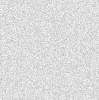
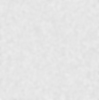
Updated style with less shadow and texture

diff --git a/index.html b/index.html
@@ -65,6 +65,7 @@
 </head>
 <body>
 	
+<div id="backgroundGradient"></div>
 <div id="pageWrapper">
 	
 	<div id="navTile" class="tileDarkGradient">
@@ -85,7 +86,7 @@
 			<img id="aboutPicture" src="images/me.png" alt="Picture of Me!" />
 			<div id="aboutInfo">
 				<div id="aboutTitle">Hey there!</div>
-				<div id="aboutDescription">Welcome to my website. I'm a User Experience Designer and Developer. I'm looking for roles that allow me to craft incredible user experiences. I believe in lifelong learning and an education for all. Only through education will we be able to solve the world's problems. That's why I find myself working on projects that promote this. Check out my <a href="javascript:showPortfolio()">portfolio</a> and <a href="javascript:showResume()">resum&eacute;</a> for more!</div>
+				<div id="aboutDescription">Welcome to my website. I'm a User Experience Designer and Developer. I'm looking for roles that allow me to craft incredible user experiences. I believe in lifelong learning and an education for all. Through education we will solve the world's problems. That's why I find myself working on projects that promote this. Check out my <a href="javascript:showPortfolio()">portfolio</a> and <a href="javascript:showResume()">resum&eacute;</a> for more!</div>
 			</div>
 		</div>
 		
@@ -112,7 +113,7 @@
 		<div id="twitterTile" class="tileDark">
 			<div id="twitterHandle">
 				<img src="images/twitter.png" style="height: 46px;" alt="Twitter" />
-				<span style="vertical-align: top">TWITTER <a href="http://twitter.com/tjpiggott" style="vertical-align: top" target="_blank">@TJPIGGOTT</a></span>
+				<span style="vertical-align: top"><a href="http://twitter.com/tjpiggott" style="vertical-align: top" target="_blank">TWITTER</a></span>
 			</div>
 			<a class="twitter-timeline" data-dnt=true href="https://twitter.com/tjpiggott" data-widget-id="256671767760879616" width="440" height="350">... loading tweets</a>
 			<script type="text/javascript">!function(d,s,id){var js,fjs=d.getElementsByTagName(s)[0];if(!d.getElementById(id)){js=d.createElement(s);js.id=id;js.src="http://platform.twitter.com/widgets.js";fjs.parentNode.insertBefore(js,fjs);}}(document,"script","twitter-wjs");</script>
@@ -121,7 +122,7 @@
 		<div id="instagramTile" class="tileDark">
 			<img src="images/instagram.png" style="float: left; height: 40px; margin: 20px 10px 0 20px;" alt="Instagram" />
 			<div id="instagramInfo">
-				<div id="instagramTitle">INSTAGRAM</div>
+				<div id="instagramTitle"><a href="http://instagram.com/tjpiggott" target="_blank">INSTAGRAM</a></div>
 				<div id="instagramDescription">Pictures of life... which means lots of food.</div>
 			</div>
 			<div id="instagramPhoto"></div>
@@ -179,14 +180,14 @@
 				<div class="itemMeta">
 					Winter '12 - Present
 					<br/><br/>
-					<b>Roles:</b> UX Designer, Developer
+					<b>Roles:</b> Project Lead, UX Designer, Developer
 					<br/><br/>
 					<b>Technology:</b> Visual Studio, C#, Silverlight, Git, Photoshop, Illustrator
 				</div>
 				<div class="itemText">
 					MessageBoard was designed to be very simple, allowing for easy control by administrators and easy discussion between students and teachers. Teachers and administrators are able to setup classroom groups that then have their own set of boards. Any student associated with a classroom is able to see and participate in those discussion. The platform was also built with a web-based backend so that we can eventually build clients that work on the Android and iOS platforms in addition to Windows Phone 7.
 					<br/><br/>
-					Learn more about it the whole Cosmos Mobile Learning Platform <a target="_blank" href="http://cosmosmlp.org">here</a>.
+					Available in the <a href="http://www.windowsphone.com/en-us/store/app/messageboard/7d2755b0-a26d-4293-ac2b-4b257c5a77ea" target="_blank">Windows Marketplace</a> now, you can learn more about it the whole Cosmos Mobile Learning Platform <a target="_blank" href="http://cosmosmlp.org">here</a>.
 				</div>
 			</div>
 		</div>
@@ -209,16 +210,16 @@
 				<div class="itemMeta">
 					Winter 2012
 					<br/><br/>
-					<b>Roles:</b> UX Designer, Developer
+					<b>Roles:</b> Project Lead, UX Designer, Developer
 					<br/><br/>
 					<b>Technology:</b> Illustrator, Photoshop, Visual Studio, C#, Silverlight, Git
 				</div>
 				<div class="itemText">
 					The Cosmos Mobile Learning Platform is a learn everywhere and anytime collection of Windows Phone 7 applications that lets students engage in exploratory and multi-modal learning wherever they go. MyDesk is the flagship app which has six mini-apps inside of it. It is currently in use by 350 3rd graders at Nan Chiau Primary School in Singapore and the initial results are promising. We've seen a major shift from top down lecturing to a more constructivist learning style with discussion and exploration.
 					<br/><br/>What's amazing about the myDesk Mobile Learning Platform is how well it encourages children to collaborate, explore, and learn anywhere and everywhere they go because they have the Windows Phone 7 devices with them at all times. Teachers are able to set up assignments for students to complete and submit and students are also able to make creations of their own whenever they like. The myDesk Mobile Learning Platform is supported in the background by a web interface that teachers can use to coordinate their classes.
-					<br/><br/>I was in Singapore at our pilot school for 6 months, supporting the application, interviewing administrators, teachers and students, observing classes, and redesigning the platform based on these experiences. I also helped further develop the platform and successfully launched updates to the app with new features and bug fixes.
+					<br/><br/>I was in Singapore at our pilot school for 4 months, supporting the application, interviewing administrators, teachers and students, observing classes, and redesigning the platform based on these experiences. I also helped further develop the platform and successfully launched updates to the app with new features and bug fixes.
 					<br/><br/>
-					Learn more about it <a target="_blank" href="http://cosmosmlp.org">here</a>.
+					Available in the <a href="http://www.windowsphone.com/en-us/store/app/mydesk/5f57dc71-3905-49e1-8144-fa840cf78a4b" target="_blank">Windows Marketplace</a> now, you can learn more about it <a target="_blank" href="http://cosmosmlp.org">here</a>.
 				</div>
 			</div>
 		</div>
@@ -255,7 +256,7 @@
 		<div id="item21" class="itemContent">
 			<div class="itemIntro">
 				<div class="itemCategories">
-					<img class="itemCategory" src="images/categories/gfx.png" alt="graphic designer" title="graphic designer" />
+					<img class="itemCategory" src="images/categories/gfx.png" alt="Graphic Designer" title="Graphic Designer" />
 					<img class="itemCategory" src="images/categories/solo.png" alt="Solo Project" title="Solo Project" />
 				</div>
 				<div id="item21Thumbnail" class="itemThumbnail" title="Nam June Paik Life Timeline" onclick="toggleItem(21)"></div>
@@ -283,7 +284,7 @@
 		<div id="item22" class="itemContent">
 			<div class="itemIntro">
 				<div class="itemCategories">
-					<img class="itemCategory" src="images/categories/gfx.png" alt="graphic designer" title="graphic designer" />
+					<img class="itemCategory" src="images/categories/gfx.png" alt="Graphic Designer" title="Graphic Designer" />
 					<img class="itemCategory" src="images/categories/solo.png" alt="Solo Project" title="Solo Project" />
 				</div>
 				<div id="item22Thumbnail" class="itemThumbnail" title="Digital Signage" onclick="toggleItem(22)"></div>
@@ -311,7 +312,7 @@
 		<div id="item23" class="itemContent">
 			<div class="itemIntro">
 				<div class="itemCategories">
-					<img class="itemCategory" src="images/categories/gfx.png" alt="graphic designer" title="graphic designer" />
+					<img class="itemCategory" src="images/categories/gfx.png" alt="Graphic Designer" title="Graphic Designer" />
 					<img class="itemCategory" src="images/categories/solo.png" alt="Solo Project" title="Solo Project" />
 				</div>
 				<div id="item23Thumbnail" class="itemThumbnail" title="SI Website Redesign" onclick="toggleItem(23)"></div>
@@ -331,7 +332,7 @@
 				<div class="itemText">
 					This assignment required we take the old website and leave it mostly intact. However, they wanted the University's colors (Maize and Blue) used instead of what was in use (Red and Blue). They also wanted us to use some of their analytics data to reorder and redesign some of the information layouts. So, with this knowledge, I created a design that is both in tune with the desired University of Michigan School of Information branding and has a better layout for the information. Graphically, the background uses the University colors and relates to the School of Information with a Stream Graph data visualization. The information laid out focuses more directly on getting the heaviest users of the site to the information they need. This meant giving better links to students, such as direct access to courses and timetables along with graduation requirements.
 					<br/><br/>
-					View the entire redesign <a target="_blank" href="portfolio/SIWebsiteRedesign.pdf">here</a>.
+					View the full redesign <a target="_blank" href="portfolio/SIWebsiteRedesign.pdf">here</a>.
 				</div>
 			</div>
 		</div>
@@ -561,9 +562,9 @@
 				<div class="itemText">
 					The Sweetland Center for Writing is a department at the University of Michigan that offers services and classes 
 					to students that focus on improving their writing skills. The website serves as a portal for students to sign up for 
-					advising appointments and to learn more about writing requirements and classes. My team evaluated by performing many 
-					different usability studies. We created an interaction map, performed interviews, a comparative analysis, heuristic evaluations, 
-					conducted a survey with more than 2,000 responses, and carried out usability tests.
+					advising appointments and to learn more about writing requirements and classes. My team evaluated their site by performing many 
+					different usability studies. We created an interaction map, performed interviews, ran comparative analysis, heuristic evaluations, 
+					conducted a survey with more than 2,000 responses, and carried out usability tests with current students.
 					<br/><br/>
 					View the interaction map <a target="_blank" href="portfolio/Sweetland_WebsiteInteractionMap.pdf">here</a>.
 				</div>
@@ -817,7 +818,7 @@
 				<div id="item8Thumbnail" class="itemThumbnail" title="The Ultimate Machine" onclick="toggleItem(8)"></div>
 				<div class="itemInfo">
 					<div class="itemTitle" onclick="toggleItem(8)">The Ultimate Machine</div>
-					<div class="itemPreview">A design document describing a game aimed at developing student's sense of physics as they build machines, race, tweak their designs, and win.</div>
+					<div class="itemPreview">A design document describing a game aimed at developing a student's sense of physics as they build machines, race, tweak their designs, and win.</div>
 				</div> 
 			</div>
 			<div id="item8Description" class="itemDescription">
@@ -832,6 +833,8 @@
 					The Ultimate Machine is a design document for a game that focuses on teaching middle school aged children about physics. The child builds a plane, boat, or car and
 					races them against other children or computer players. A parental-figure provides advice to the player in order to make a better machine. There would also be an online 
 					community for children to discuss and share their designs.
+					<br/><br/>
+					The game takes advantage of different aspects of behavioral, cognitive, and constructivist learning theory in order to support the student's learning. Behavioral learning theory is employed through positive and negative reinforcement. Cognitive learning theory is also relied upon through tutorials and providing access to information on all the machine parts and physics topics. Most importantly, constructivism is used as continued success in the competitions relies on continuing to use knowledge learned from past competitions while new wrinkles are introduced.
 					<br/><br/>
 					Read it <a target="_blank" href="portfolio/TheUltimateMachine_Piggott.pdf">here</a>.
 				</div>
@@ -866,6 +869,16 @@
 					I choose to include this in my portfolio not just because I'm proud of my first real development project but because it helps to show how far I've come in terms of development and design.
 					<br/><br/>
 					Try it out by downloading it <a target="_blank" href="portfolio/BillManager.zip">here</a>.
+					<br/><br/>
+					<br/><br/>
+					<br/><br/>
+					<br/><br/>
+					<br/><br/>
+					<br/><br/>
+					<br/><br/>
+					<br/><br/>
+					<br/><br/>
+					<br/><br/>
 				</div>
 			</div>
 		</div>
@@ -938,7 +951,7 @@
 					<div class="title">Professional Experience</div>
 					<div class="resumeItem">
 						<div class="resumeItemInfo">COSMOS MOBILE LEARNING PLATFORM</div>
-						<div class="resumeItemSubInfo"><div style="float: left">User Experience Designer</div><div style="float: right">2012-Present</div></div>
+						<div class="resumeItemSubInfo"><div style="float: left">Singapore Project Lead</div><div style="float: right">2012-Present</div></div>
 						<ul class="resumeList">
 							<li>Oversaw the design, development, and deployment of 2 apps to 350 students and 10 teachers for daily classroom use.</li>
 							<li>Performed classroom observations around student use of our two apps, MyDesk and MessageBoard</li>

diff --git a/css/style.css b/css/style.css
@@ -43,8 +43,21 @@ a.navItemLinkSelected:link, a.navItemLinkSelected:visited{
 	color: #e3e3e3;
 }
 
+#backgroundGradient{
+	position: fixed;
+	width: 100%;
+	height: 100%;
+	background: -moz-radial-gradient(center, ellipse cover,  #f6f6f6 0%, #dddddd 100%); /* FF3.6+ */
+	background: -webkit-gradient(radial, center center, 0px, center center, 100%, color-stop(0%,#f6f6f6), color-stop(100%,#dddddd)); /* Chrome,Safari4+ */
+	background: -webkit-radial-gradient(center, ellipse cover,  #f6f6f6 0%,#dddddd 100%); /* Chrome10+,Safari5.1+ */
+	background: -o-radial-gradient(center, ellipse cover,  #f6f6f6 0%,#dddddd 100%); /* Opera 12+ */
+	background: -ms-radial-gradient(center, ellipse cover,  #f6f6f6 0%,#dddddd 100%); /* IE10+ */
+	background: radial-gradient(ellipse at center,  #f6f6f6 0%,#dddddd 100%); /* W3C */
+	filter: progid:DXImageTransform.Microsoft.gradient( startColorstr='#f6f6f6', endColorstr='#dddddd',GradientType=1 ); /* IE6-9 fallback on horizontal gradient */
+}
+
 body{
-	background-image: url('../images/background.png');
+	background: #f6f6f6;
 }
 
 .book{
@@ -67,7 +80,7 @@ body{
 	position: absolute;
 	top: -20px;
 	left: 30px;
-	border: 4px solid #f3f3f3;	
+	border: 1px solid #dddddd;	
 }
 
 #aboutInfo{
@@ -190,9 +203,7 @@ body{
 	height: 25px;
 	background-color: #8e32d5;
 	border: 1px solid #1a1a1a;
-	-moz-box-shadow: 4px 4px 4px rgba(41,41,41,0.3);
-	-webkit-box-shadow: 4px 4px 4px rgba(41,41,41,0.3);
-	box-shadow: 4px 4px 4px rgba(41,41,41,0.3);
+	
 	z-index: 101;
 }
 
@@ -202,9 +213,7 @@ body{
 	margin: 50px 25px 50px 25px;
 	background-color: #292929;
 	border: 1px solid #1a1a1a;
-	-moz-box-shadow: 4px 4px 4px rgba(41,41,41,0.3);
-	-webkit-box-shadow: 4px 4px 4px rgba(41,41,41,0.3);
-	box-shadow: 4px 4px 4px rgba(41,41,41,0.3);
+	
 }
 
 #instagramInfo{
@@ -238,11 +247,6 @@ body{
 	float: left;
 	margin: 50px 25px 50px 25px;
 	width: 198px;
-	background-color: #f3f3f3;
-	border: 1px solid #dddddd;
-	-moz-box-shadow: 4px 4px 4px rgba(41,41,41,0.3);
-	-webkit-box-shadow: 4px 4px 4px rgba(41,41,41,0.3);
-	box-shadow: 4px 4px 4px rgba(41,41,41,0.3);
 }
 
 #resumeWrapper{
@@ -253,6 +257,7 @@ body{
 	float: left;
 	font-size: 14px;
 	margin: 0 0 50px 0;
+	position: relative;
 }
 
 #resumeLeftColumn{
@@ -316,11 +321,9 @@ ul.resumeList{
 
 .tileLight{
 	color: #515151;
-	background-color: #f3f3f3;
+	background-color: #f1f1f1;
 	border: 1px solid #dddddd;
-	-moz-box-shadow: 4px 4px 4px rgba(41,41,41,0.3);
-	-webkit-box-shadow: 4px 4px 4px rgba(41,41,41,0.3);
-	box-shadow: 4px 4px 4px rgba(41,41,41,0.3);
+	position: relative;
 }
 
 .tileDark{
@@ -328,9 +331,7 @@ ul.resumeList{
 	background-color: #292929;
 	border: 1px solid #1a1a1a;
 	padding: 10px 0 0 0;
-	-moz-box-shadow: 4px 4px 4px rgba(41,41,41,0.3);
-	-webkit-box-shadow: 4px 4px 4px rgba(41,41,41,0.3);
-	box-shadow: 4px 4px 4px rgba(41,41,41,0.3);
+	position: relative;
 }
 
 .tileDarkGradient{
@@ -344,9 +345,6 @@ ul.resumeList{
 	background: linear-gradient(to bottom, rgba(41,41,41,1) 0%,rgba(0,0,0,1) 100%); /* W3C */
 	filter: progid:DXImageTransform.Microsoft.gradient( startColorstr='#292929', endColorstr='#000000',GradientType=0 ); /* IE6-9 */
 
-	-moz-box-shadow: 4px 4px 4px rgba(41,41,41,0.3);
-	-webkit-box-shadow: 4px 4px 4px rgba(41,41,41,0.3);
-	box-shadow: 4px 4px 4px rgba(41,41,41,0.3);
 }
 
 #twitterHandle{
@@ -369,9 +367,6 @@ ul.resumeList{
 	color: #e3e3e3;
 	background-color: #292929;
 	border: 1px solid #1a1a1a;
-	-moz-box-shadow: 4px 4px 4px rgba(41,41,41,0.3);
-	-webkit-box-shadow: 4px 4px 4px rgba(41,41,41,0.3);
-	box-shadow: 4px 4px 4px rgba(41,41,41,0.3);
 	margin: -1px 0 0 0;
 	padding: 10px;
 }

diff --git a/css/portfolio.css b/css/portfolio.css
@@ -126,9 +126,6 @@
 
 .portfolioImage{
  	border: 2px solid #b3b3b3;
-	-moz-box-shadow: 0 5px 10px #000;
-	-webkit-box-shadow: 0 5px 10px #000;
-	box-shadow: 0 5px 10px #000;
  }
  
 #portfolioWrapper{
@@ -143,18 +140,18 @@
 .itemContent{
 	float: left;
 	margin: 0 0 50px 50px;
-	width: 700px;
-	background-color: #f3f3f3;
-	-moz-box-shadow: 4px 4px 4px rgba(41,41,41,0.3);
-	-webkit-box-shadow: 4px 4px 4px rgba(41,41,41,0.3);
-	box-shadow: 4px 4px 4px rgba(41,41,41,0.3);
+	padding: 5px;
+	width: 698px;
+	background-color: #f1f1f1;
+	border: 1px solid #dddddd;
 }
 
 .itemContentForDescription{
 	float: left;
 	margin: 0 0 50px 50px;
-	width: 700px;
+	width: 698px;
 	color: #e3e3e3;
+	padding: 6px;
 }
 
 .itemDescription{
@@ -165,7 +162,7 @@
 
 .itemText{
 	float: left;
-	width: 500px;
+	width: 498px;
 	margin: 0 25px 0 0;
 }
 
@@ -198,6 +195,17 @@
 	font-size: 18pt;
 	margin: 0 0 0 20px;
 	cursor: pointer;
+	
+	transition: color 300ms ease-out;
+	-webkit-transition: color 300ms ease-out;
+	-moz-transition: color 300ms ease-out;
+}
+
+.itemTitle:hover{
+	color: #8e32d5;
+	transition: color 300ms ease-out;
+	-webkit-transition: color 300ms ease-out;
+	-moz-transition: color 300ms ease-out;
 }
 
 .itemPreview{
@@ -208,7 +216,6 @@
 	float: left;
 	width: 160px;
 	height: 160px;
-	background-color: #f3f3f3;
 	border: 5px solid #ffffff;
 	position: relative;
 	cursor: pointer;
@@ -220,11 +227,7 @@
 	top: 30px;
 	left: 0;
 	padding: 20px 20px 20px 200px;
-	background-color: #f3f3f3;
 	border: 1px solid #dddddd;
-	-moz-box-shadow: 4px 4px 4px rgba(41,41,41,0.3);
-	-webkit-box-shadow: 4px 4px 4px rgba(41,41,41,0.3);
-	box-shadow: 4px 4px 4px rgba(41,41,41,0.3);
 }
 
 #itemContentsContainer{
@@ -234,10 +237,6 @@
 	top: 150px;
 	width: 700px;
 	padding: 10px;
-	background-color: #f3f3f3;
-	-moz-box-shadow: 4px 4px 4px rgba(41,41,41,0.3);
-	-webkit-box-shadow: 4px 4px 4px rgba(41,41,41,0.3);
-	box-shadow: 4px 4px 4px rgba(41,41,41,0.3);
 }
 
 #itemContentContainerCloseButton{
@@ -251,9 +250,6 @@
 
 	background-color: #292929;
 	border: 1px solid #1a1a1a;
-	-moz-box-shadow: 4px 4px 4px rgba(41,41,41,0.3);
-	-webkit-box-shadow: 4px 4px 4px rgba(41,41,41,0.3);
-	box-shadow: 4px 4px 4px rgba(41,41,41,0.3);
 	-moz-border-bottom-right-radius: 4px;
 	-webkit-border-bottom-left-radius: 4px;
 	-moz-border-bottom-right-radius: 4px;
